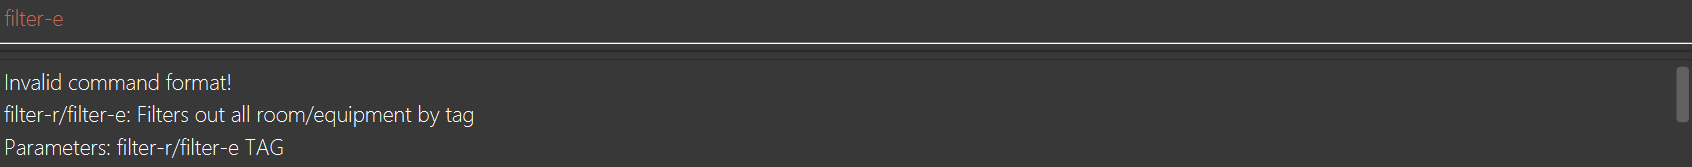
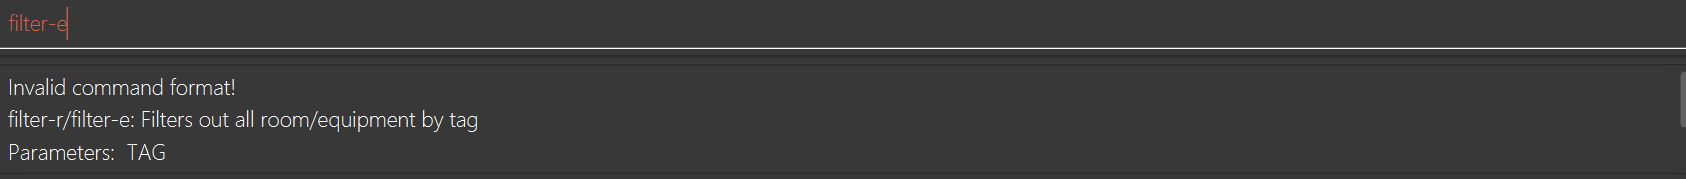
Update UG

diff --git a/src/main/java/seedu/address/logic/commands/DeleteTagCommand.java b/src/main/java/seedu/address/logic/commands/DeleteTagCommand.java
@@ -17,7 +17,8 @@ public class DeleteTagCommand extends Command {
     public static final String COMMAND_WORD2 = "untag-e";
     public static final String MESSAGE_USAGE = COMMAND_WORD + "/" + COMMAND_WORD2
             + ": untags an existing tag from an existing room in the system.\n"
-            + "Parameters: " + COMMAND_WORD + "/" + COMMAND_WORD2 + " TAG\n"
+            + "Parameters: "
+            + " ROOM_NAME_OR_EQUIPMENT_NAME TAG\n"
             + "Example: " + COMMAND_WORD + " MPSH-1 "
             + "Renovation\n"
             + COMMAND_WORD2 + " "

diff --git a/src/main/java/seedu/address/logic/commands/AddTagCommand.java b/src/main/java/seedu/address/logic/commands/AddTagCommand.java
@@ -19,7 +19,8 @@ public class AddTagCommand extends Command {
 
     public static final String MESSAGE_USAGE = COMMAND_WORD + "/" + COMMAND_WORD2
             + ": Tags an existing room/equipment to the system.\n"
-            + "Parameters: " + COMMAND_WORD + "/" + COMMAND_WORD2 + " TAG\n"
+            + "Parameters: "
+            + " ROOM_NAME_OR_EQUIPMENT_NAME TAG\n"
             + "Example: " + COMMAND_WORD + " MPSH-1 "
             + "Renovation\n"
             + COMMAND_WORD2 + " "

diff --git a/src/main/java/seedu/address/logic/commands/FilterTagCommand.java b/src/main/java/seedu/address/logic/commands/FilterTagCommand.java
@@ -18,7 +18,7 @@ public class FilterTagCommand extends Command {
 
     public static final String MESSAGE_USAGE = COMMAND_WORD + "/" + COMMAND_WORD2
             + ": Filters out all room/equipment by tag\n"
-            + "Parameters: " + COMMAND_WORD + "/" + COMMAND_WORD2 + " TAG\n"
+            + "Parameters: " + " TAG\n"
             + "Example: " + COMMAND_WORD + " IHG\n"
             + COMMAND_WORD2 + " IHG";
 

diff --git a/docs/UserGuide.md b/docs/UserGuide.md
@@ -761,8 +761,7 @@ Tag equipment as `t/IHG` during competition weeks to quickly filter items that s
 ![tag-e_success.png](images/tag-e_success.png)
 ![tag-r_success](images/tag-r_success.png)
 * Failure <br>
-![tag_failure](images/tag_failure.png)
-
+![tag_failure.png](images/tag_failure.png)
 
 
 **Possible errors:**
@@ -807,6 +806,7 @@ Use this command to remove outdated or incorrect tags from equipment or rooms.
 * Failure <br>
 ![untag_failure](images/untag_failure.png)
 
+
 **Possible errors:**
 * *Invalid command:* Extra input.
 * *Invalid name/tag:* Using spaces, special characters (e.g., `#`, `@` etc.), or leaving fields blank.
@@ -841,7 +841,7 @@ Use this command to quickly find all equipment or rooms associated with a partic
   ![filter-e_success](images/filter-e_success.png)
   ![filter-r_success](images/filter-r_success.png)
 * Failure <br>
-  ![filter_failure](images/filter_failure.png)
+![filter_failure.png](images/filter_failure.png)
 
 **Possible errors:**
 * *Invalid command:* Missing `t/` prefix.
